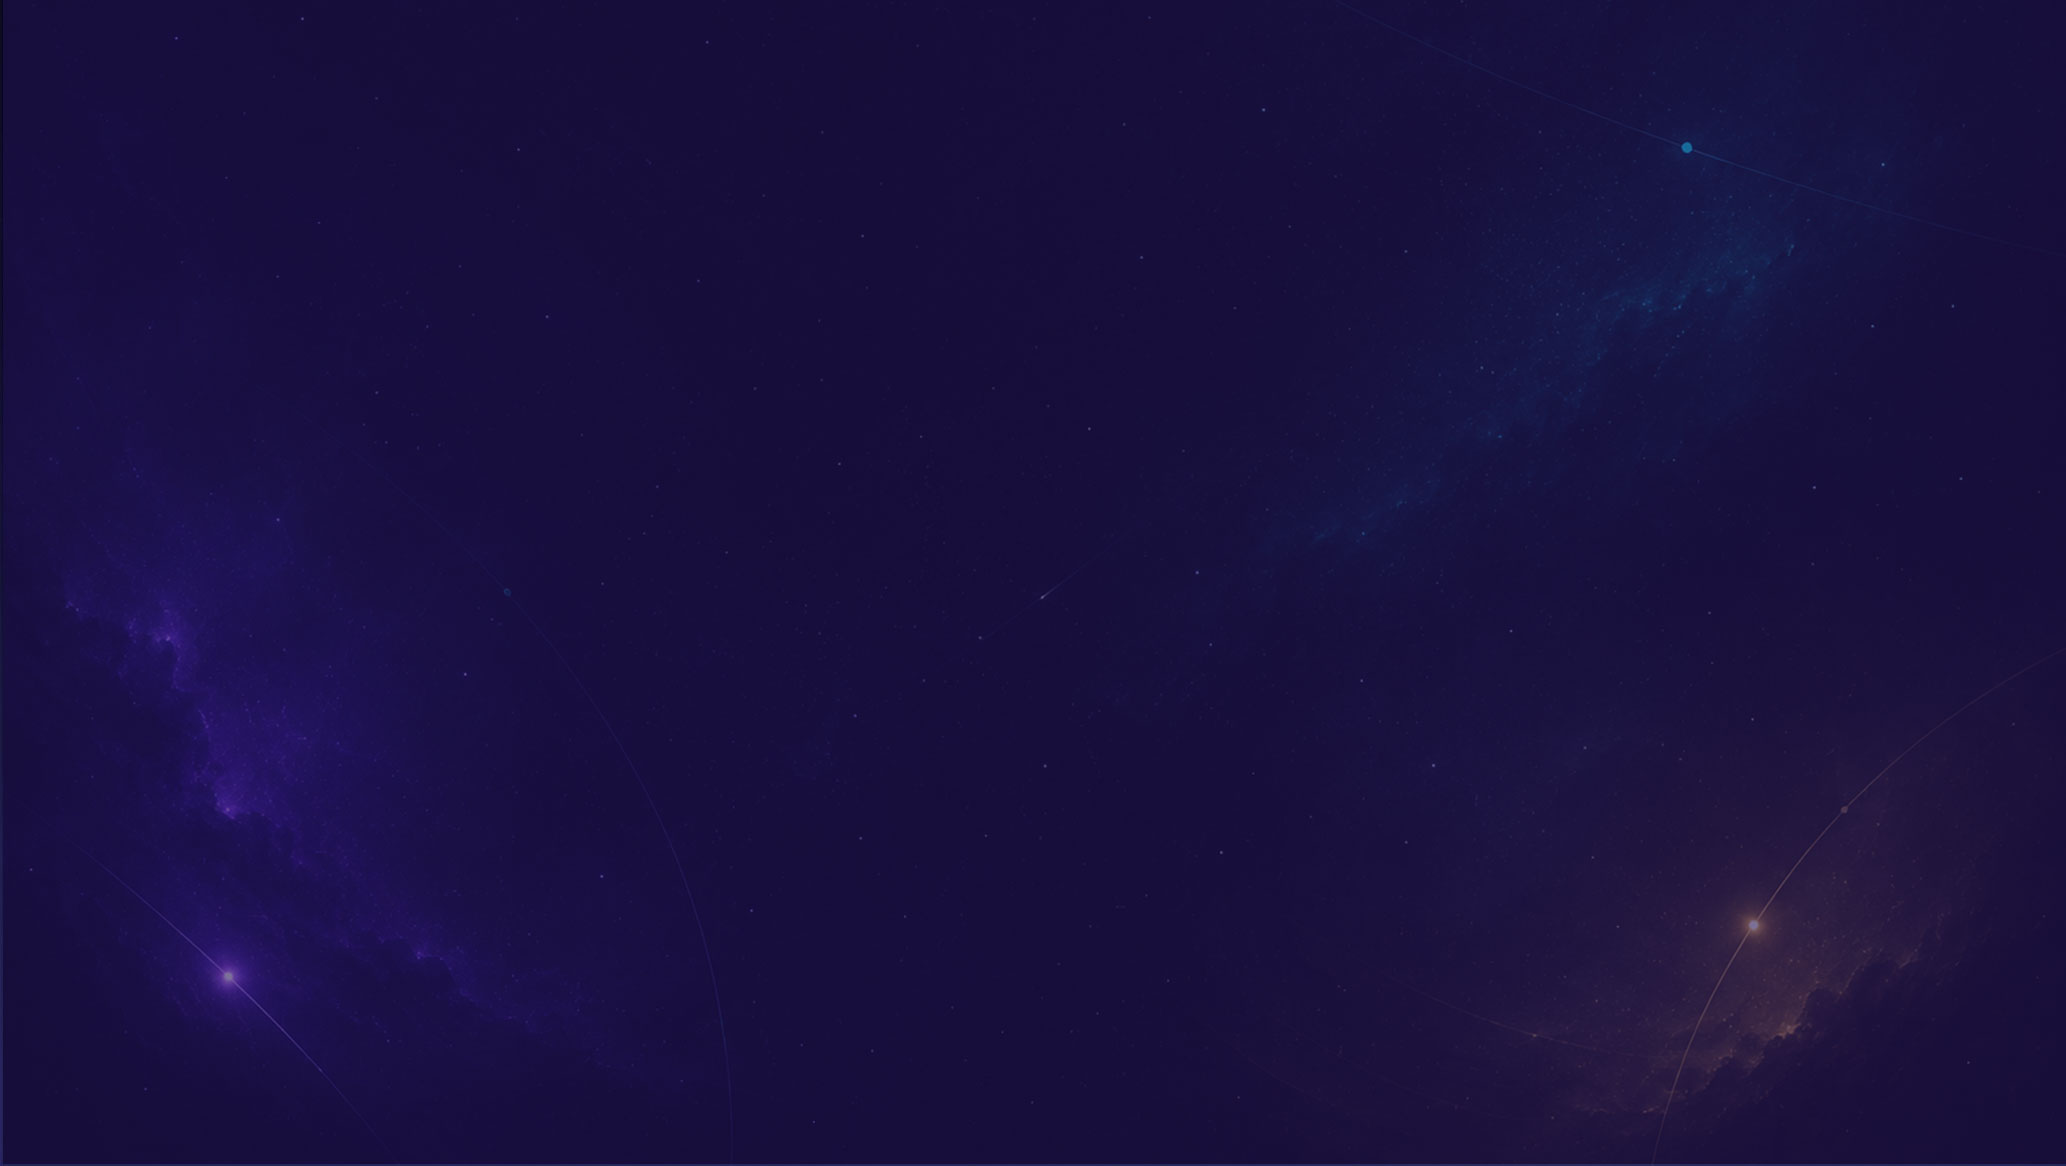
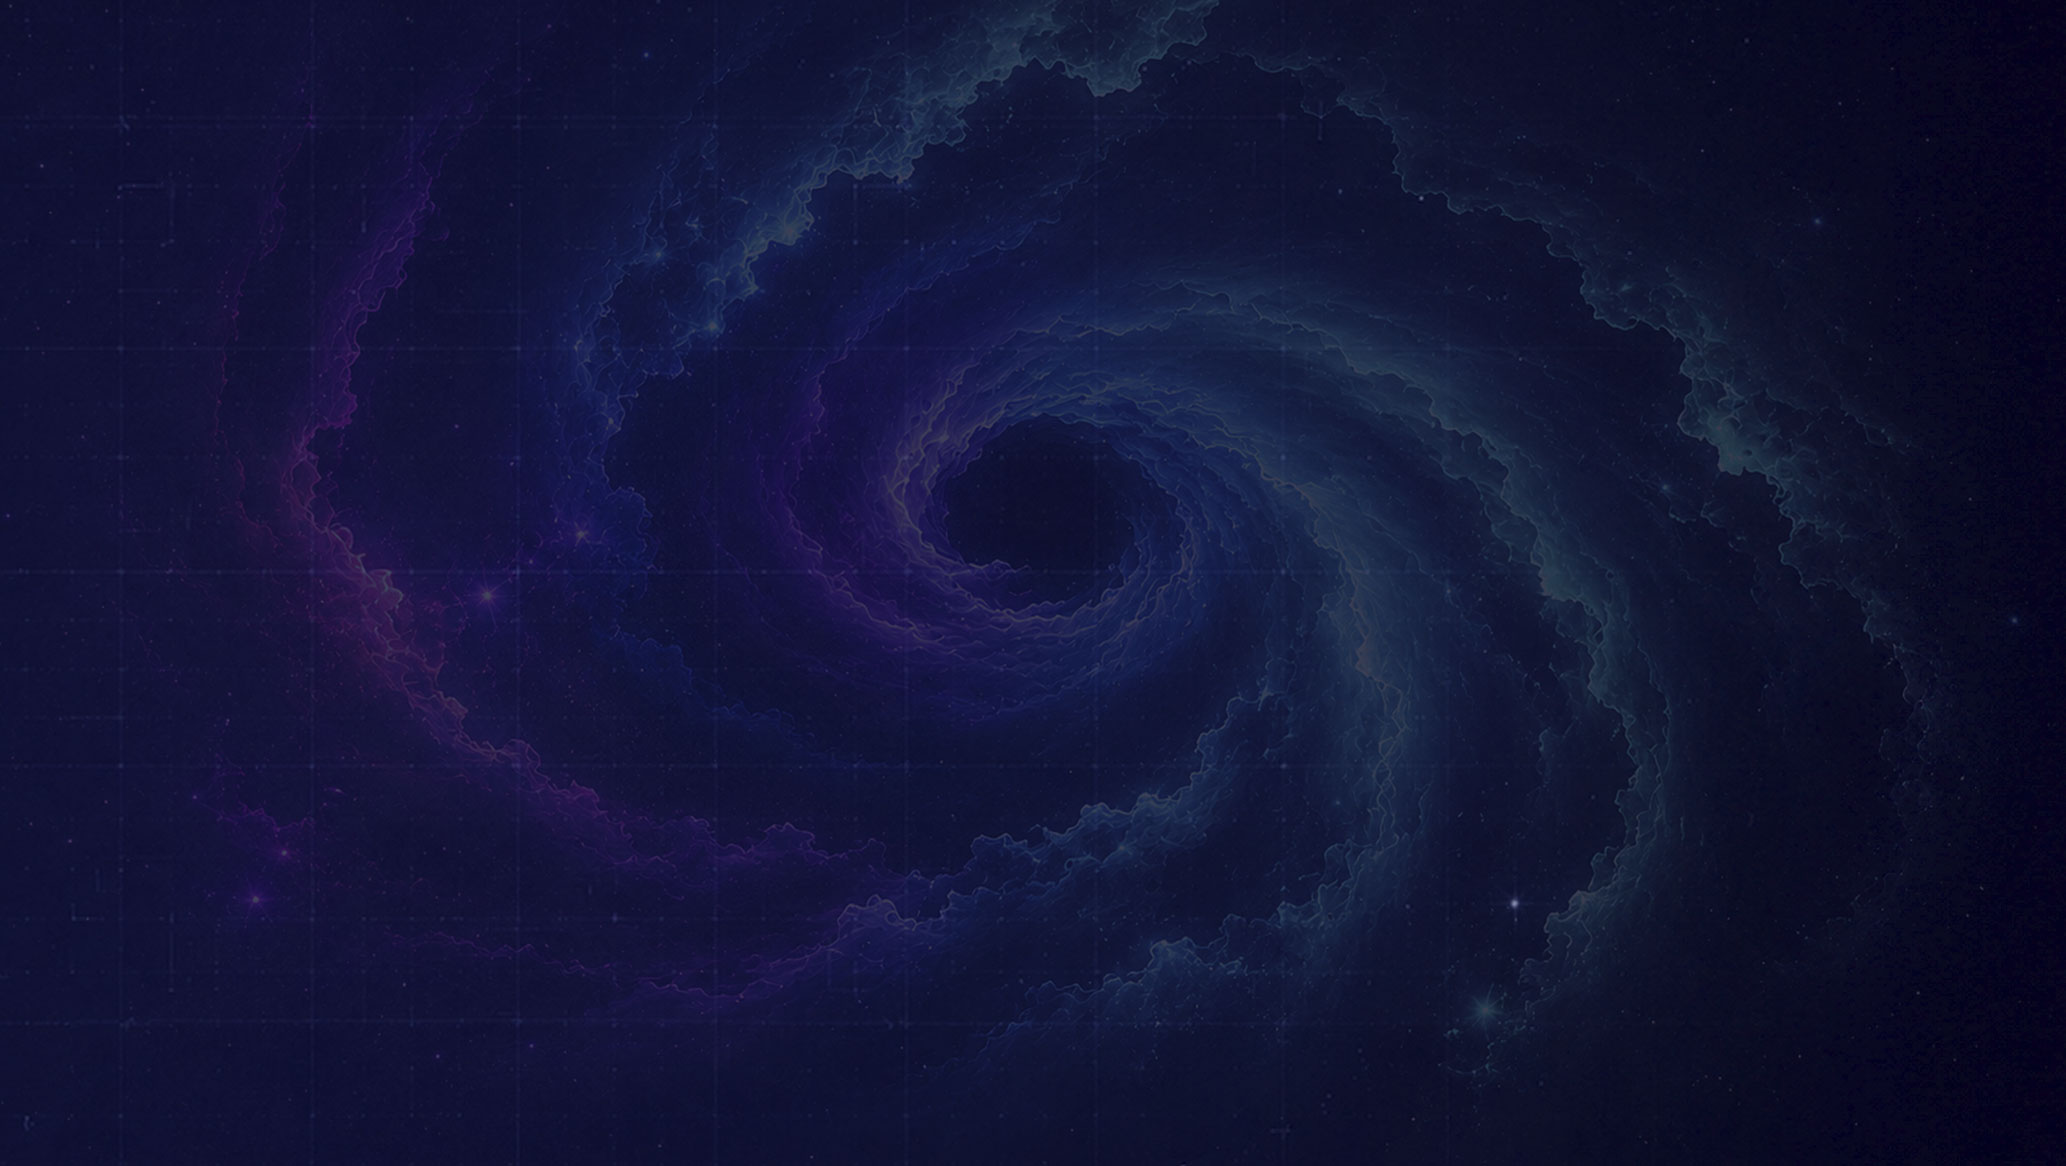
adicionando melhorias e correções de conteúdo

diff --git a/src/components/ui/Button.jsx b/src/components/ui/Button.jsx
@@ -2,70 +2,38 @@ import { Link } from 'react-router-dom'
 
 function Button({
   children,
-  href = '#',
+  target,
+  href = '',
   variant = 'primary',
   size = 'md',
-  target,
-  mobileFullWidth = false,
   className = '',
+  mobileFullWidth = false,
   iconRight
 }) {
 
   const variants = {
-    primary: `
-      bg-cosmic-blue
-      text-white
-      hover:opacity-85
-      shadow
-      hover:shadow-md
-    `,
-
-    secondary: `
-      border border-cosmic-blue
-      text-white
-      hover:bg-cosmic-blue/30
-      shadow
-      hover:shadow-md
-    `,
-
-    ghost: `
-      bg-transparent
-      text-white-55
-      hover:text-white
-    `,
-
-    gold: `
-      bg-solar-gold
-      text-midnight-deep
-      hover:opacity-90
-    `,
-
-    disabled: `
-      bg-cosmic-blue/40
-      text-white-40
-      pointer-events-none
-    `
+    primary: `bg-cosmic-blue hover:opacity-85`,
+    secondary: `border border-cosmic-blue hover:bg-cosmic-blue/30`,
+    accent: `bg-solar-gold text-midnight-deep hover:bg-solar-orange`,
+    disabled: `bg-disabled text-midnight-deep opacity-40 pointer-events-none`
   }
 
   const sizes = {
     sm: 'min-h-10 px-5 text-sm',
-    md: 'min-h-13 px-8 text-[15px]',
+    md: 'min-h-13 px-8 text-base',
     lg: 'min-h-15 px-10 text-lg',
   }
 
   return (
     <Link
-      to={href}
-      target={target}
-      className={`
-        inline-flex
-        items-center
-        justify-center
-        gap-3
-        rounded-btn
-        font-bold
-        uppercase
-        transition
+      to = {href}
+      target = {target}
+      className = {`
+        font-medium text-white uppercase
+        inline-flex items-center justify-center
+        gap-3 rounded-btn
+        transition shadow hover:shadow-md
+
         ${mobileFullWidth ? 'w-full md:w-auto' : ''}
         ${variants[variant]}
         ${sizes[size]}

diff --git a/src/pages/Services.jsx b/src/pages/Services.jsx
@@ -38,26 +38,44 @@ const steps = [
   {
     number: '01',
     title: 'Entender',
+    subtitle: 'Discovery / Pesquisa',
     description:
       'Antes de abrir o Figma, entender o contexto. Para quem, por quê e como vai ser feito.',
   },
   {
     number: '02',
+    title: 'Definir',
+    subtitle: 'PRD / Escopo',
+    description:
+      'O problema claro antes da solução. Escopo, critérios de sucesso e o que não vai entrar.',
+  },
+  {
+    number: '03',
     title: 'Projetar',
+    subtitle: 'Wireframes / Protótipo',
     description:
       'Fluxos antes de pixels. Decisões de UX antes de decisões visuais. A tela bonita é consequência.',
   },
   {
-    number: '03',
+    number: '04',
     title: 'Construir',
+    subtitle: 'MVP / Front-end',
     description:
       'Protótipo ou código. Dependendo do que o problema pede, consigo entregar os dois.',
   },
   {
-    number: '04',
+    number: '05',
     title: 'Validar',
+    subtitle: 'Testes / Dados',
     description:
-      'Entrega não é mandar o arquivo. É garantir que o que foi projetado vai ao ar realmente funciona.',
+      'Entrega não é mandar o arquivo. É garantir que o que foi projetado vai ao ar e realmente funciona.',
+  },
+  {
+    number: '06',
+    title: 'Evoluir',
+    subtitle: 'Roadmap / Iteração',
+    description:
+      'Produto lançado é produto que começa. O que os dados mostram orienta o próximo ciclo.',
   },
 ]
 
@@ -112,7 +130,7 @@ function Services() {
     <main>
 
       {/* ─── HERO ─────────────────────────────────────────────── */}
-      <section className="relative overflow-hidden text-center bg-midnight-deep pb-24 pt-40 bg-[url('./assets/images/services-page-bg.jpg')] bg-cover bg-center bg-no-repeat">
+      <section className="relative overflow-hidden text-center bg-midnight-deep pb-48 pt-40 bg-[url('./assets/images/services-page-bg.jpg')] bg-cover bg-center bg-no-repeat">
         <div className="absolute inset-0 bg-[radial-gradient(ellipse_60%_50%_at_50%_0%,rgba(100,101,247,0.12)_0%,transparent_70%)]" />
 
         <Container className="relative z-10">
@@ -126,11 +144,11 @@ function Services() {
             <span className="text-cosmic-blue">compreender.</span>
           </h1>
 
-          <p className="text-lead mb-3 max-w-auto text-white-75">
+          <p className="text-lead mb-3 max-w-auto text-white-85">
             Cada entrega começa com a pergunta certa.
           </p>
 
-          <p className="text-body max-w-[500px] mx-auto text-white-55">
+          <p className="text-body max-w-[500px] mx-auto text-white-75">
             Não trabalho com escopo fechado antes de entender o problema.
             O briefing é o início da conversa, não a resposta.
           </p>
@@ -191,19 +209,26 @@ function Services() {
               Processo
             </span>
             <h2 className="text-[clamp(32px,4vw,52px)] font-bold leading-[1.1] tracking-[-0.025em] text-white">
-              Quatro etapas. Sem atalhos.
+              Seis etapas. Sem atalhos.
             </h2>
           </div>
 
-          <div className="grid grid-cols-1 gap-4 bg-white/07 sm:grid-cols-2 lg:grid-cols-4">
+          <div className="grid grid-cols-1 gap-4 sm:grid-cols-2 lg:grid-cols-3">
             {steps.map((step) => (
               <div
                 key={step.number}
-                className="bg-spacy-navy p-8 md:p-10 rounded-lg border border-cosmic-blue/12 transition hover:-translate-y-1 hover:border-cosmic-blue/40"
+                className="bg-spacy-navy p-8 md:p-10 rounded-lg border border-cosmic-blue/12 transition hover:-translate-y-1 hover:border-cosmic-blue/40 text-left"
               >
-                <p className="mb-5 text-2xl font-semibold tracking-[0.12em] text-orbit-cyan/60">
-                  {step.number}
-                </p>
+                <div className="flex items-baseline gap-3 mb-5">
+                  <p className="text-2xl font-semibold tracking-[0.12em] text-orbit-cyan/60">
+                    {step.number}
+                  </p>
+                  {step.subtitle && (
+                    <span className="text-[11px] font-medium uppercase tracking-[0.12em] text-cosmic-blue">
+                      {step.subtitle}
+                    </span>
+                  )}
+                </div>
                 <h3 className="mb-3 text-lg font-semibold tracking-[-0.01em] text-white">
                   {step.title}
                 </h3>

diff --git a/src/pages/About.jsx b/src/pages/About.jsx
@@ -91,7 +91,7 @@ const values = [
 ]
 
 function About() {
-  usePageTitle('Sobre')
+  usePageTitle('Quem Sou')
 
   return (
     <main>
@@ -111,11 +111,11 @@ function About() {
             <span className="text-cosmic-blue">pela solução.</span>
           </h1>
 
-          <p className="text-lead mb-6 max-w-[520px] text-white-75">
+          <p className="text-lead mb-6 max-w-[520px] text-white-85">
             Mais de 15 anos projetando produtos digitais. Sempre começando pela pergunta certa.
           </p>
 
-          <p className="text-body max-w-[520px] text-white-55">
+          <p className="text-body max-w-[520px] text-white-75">
             Sou Ademir Patrício. Designer com background em desenvolvimento front-end.
             Recife, Brasil. Disponível remotamente.
           </p>
@@ -255,7 +255,7 @@ function About() {
             O problema vem primeiro.</p>
             <p className="text-[clamp(22px,3vw,36px)] font-medium leading-[1.3] tracking-[-0.02em] text-white">
             A solução, depois.</p>
-            <p className="text-[clamp(22px,3vw,36px)] font-bold leading-[1.3] tracking-[-0.02em] text-cosmic-blue">
+            <p className="text-[clamp(22px,3vw,36px)] font-bold leading-[1.3] tracking-[-0.02em] text-solar-gold">
             Só existe o que vale a pena existir.</p>
           </blockquote>
 

diff --git a/src/pages/projects/PropostaRapida.jsx b/src/pages/projects/PropostaRapida.jsx
@@ -130,7 +130,7 @@ export default function PropostaRapida() {
         <p className="mb-4">
           Um produto da{' '}
           <a href="https://malabares.com.br" target="_blank" rel="noreferrer"
-          className="text-solar-gold hover:text-solar-orange transition-colors"
+          className="text-solar-accent hover:text-solar-orange transition-colors"
           >Malabares</a>, desenvolvido do zero e lançado como ferramenta real no mercado.
         </p>
       </CaseSection>
@@ -178,7 +178,7 @@ export default function PropostaRapida() {
         imageAlt="Preview do PDF gerado pelo Proposta Rápida"
         className="bg-cover bg-center"
         style={{ backgroundImage: `url(${imgPdfBg})` }}
-        btVariant="gold"
+        btVariant="accent"
         >
         <p>
           Do formulário ao PDF profissional em menos de dois minutos.
@@ -208,7 +208,7 @@ export default function PropostaRapida() {
         image={images.web}
         imageAlt="Proposta Rápida no ar"
         btLabel="Acessar o Proposta Rápida ⇢"
-        btVariant="gold"
+        btVariant="accent"
         href={project.links.liveUrl}
         target="_blank"
         reverse>

diff --git a/src/components/layout/Nav.jsx b/src/components/layout/Nav.jsx
@@ -71,8 +71,8 @@ function Nav() {
 
           {/* Menu Desktop */}
           <ul className="hidden items-center gap-10 md:flex">
-            <NavLink href="/sobre">
-              SOBRE
+            <NavLink href="/quem-sou">
+              QUEM SOU
             </NavLink>
 
             <NavLink href="/o-que-faco">

diff --git a/src/App.jsx b/src/App.jsx
@@ -44,7 +44,7 @@ function App() {
 
     <Routes>
       <Route path="/" element={<Home />} />
-      <Route path="/sobre" element={<About />} />
+      <Route path="/quem-sou" element={<About />} />
       <Route path="/o-que-faco" element={<Services />} />
       <Route path="/projetos" element={<Projects />} />
       <Route path="/projetos/thayna-aguiar" element={<ThaynaAguiar />} />

diff --git a/src/components/blocs/home/HomeProjects.jsx b/src/components/blocs/home/HomeProjects.jsx
@@ -14,7 +14,7 @@ import mowcarImg from '../../../assets/projects/mowcar/thumbnail.jpg'
 
 const projects = [
   {
-    accent: 'from-spacy-navy to-solar-gold/18',
+    accent: 'from-spacy-navy to-solar-accent/18',
     image: thaynaguiarImg,
     tag: 'Web / Branding',
     title: 'Thayná Aguiar',

diff --git a/src/components/case-study/CaseDevelop.jsx b/src/components/case-study/CaseDevelop.jsx
@@ -42,7 +42,7 @@ function CaseDevelop ({
                     target="_blank"
                     rel="noreferrer"
                     className="inline-flex items-center gap-2 text-sm text-white-65 hover:text-white transition-colors">
-                    <FaBehance className="text-solar-gold" /> Ver projeto no Behance</a>
+                    <FaBehance className="text-solar-accent" /> Ver projeto no Behance</a>
                 )}
             </div>
         </div>

diff --git a/src/components/case-study/CaseHero.jsx b/src/components/case-study/CaseHero.jsx
@@ -62,7 +62,7 @@ function CaseHero ({
                     <span className="text-label font-medium uppercase tracking-widest 
                     text-white-35 flex gap-2"><LuCalendarCheck /> Projeto</span>
                     <a href={link} target="_blank" rel="noreferrer">
-                        <p className="text-sm text-solar-gold hover:text-solar-orange">{link}</p>
+                        <p className="text-sm text-solar-accent hover:text-solar-orange">{link}</p>
                     </a>
                 </div>
                 <div>

diff --git a/src/pages/Projects.jsx b/src/pages/Projects.jsx
@@ -16,7 +16,7 @@ import mowcarImg from '../assets/projects/mowcar/thumbnail.jpg'
 
 const projects = [
   {
-    accent: 'from-spacy-navy to-solar-gold/18',
+    accent: 'from-spacy-navy to-solar-accent/18',
     image: thaynaguiarImg,
     tag: 'Web / Branding',
     title: 'Thayná Aguiar',

diff --git a/src/pages/projects/ThaynaAguiar.jsx b/src/pages/projects/ThaynaAguiar.jsx
@@ -115,7 +115,7 @@ export default function ThaynaAguiar() {
         <p className="mb-4">
           Copywriter, recifense, apaixonada por futebol e pelo universo digital. 
           <a href={project.links.liveUrl} target="_blank" rel="noreferrer"
-          className="text-solar-gold hover:text-solar-orange transition-colors"
+          className="text-solar-accent hover:text-solar-orange transition-colors"
           > Thayná Aguiar</a>, é especialista em criar conteúdos que fazem a diferença 
           nas redes sociais. Transforma marcas em histórias que conectam pessoas, 
           engajam e convertem.

diff --git a/tailwind.config.js b/tailwind.config.js
@@ -20,6 +20,7 @@ export default {
         'orbit-cyan':     '#22C8E5',
         'solar-gold':     '#D8B15A',
         'solar-orange':   '#ff9603',
+        'disabled':       '#2A293D',
         'white':          '#FFFFFF',
         'white-85':       'rgba(255, 255, 255, 0.85)',
         'white-75':       'rgba(255, 255, 255, 0.75)',